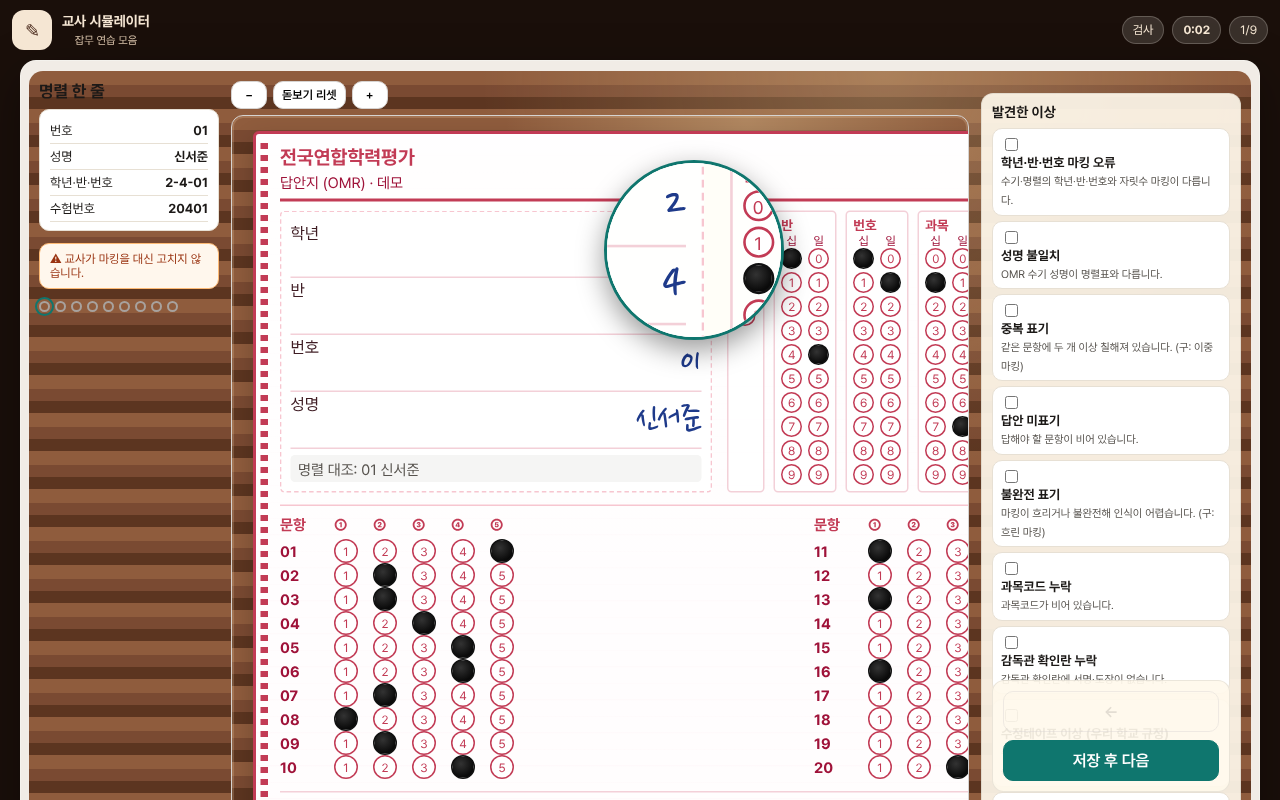
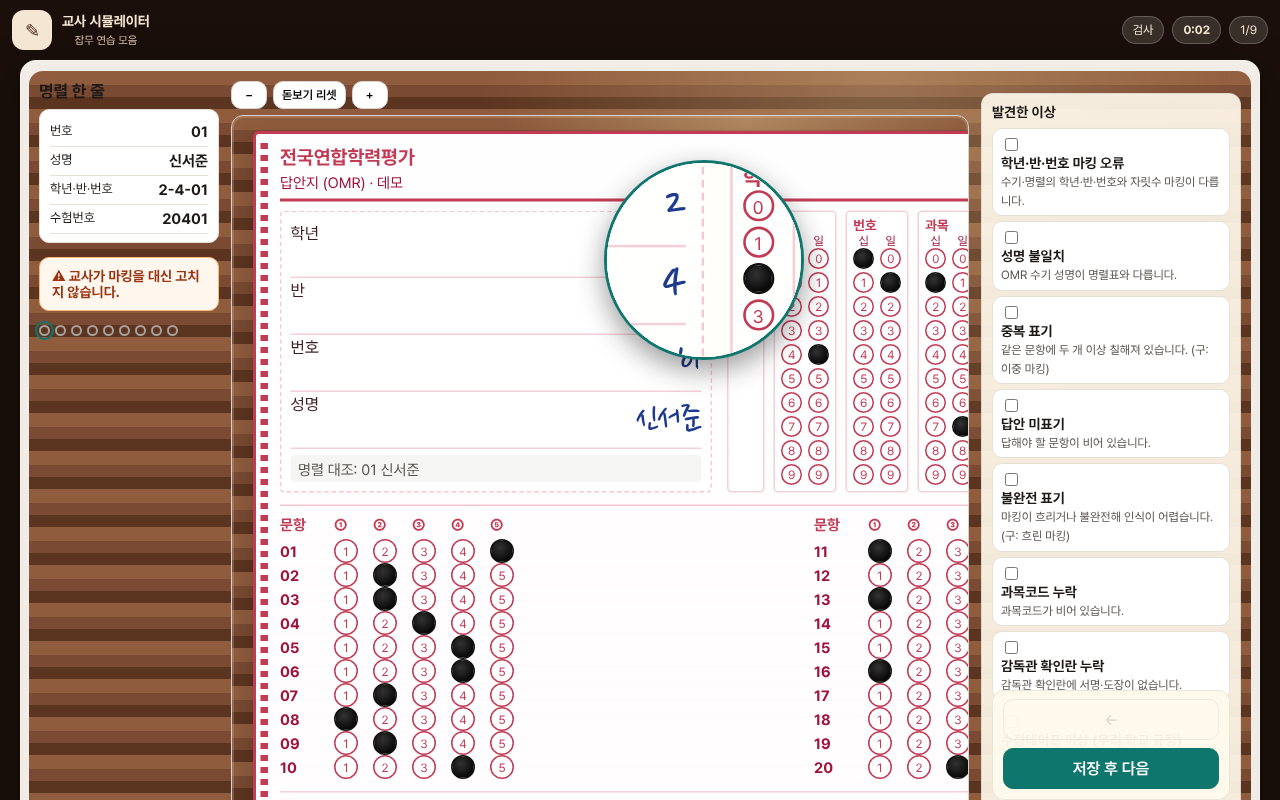
Round 0033: larger inspection labels and sticky submit
Bump warn/check/mag-hint type, enlarge the lens, and keep
Save sticky so the last disposition stays reachable.

diff --git a/src/style.css b/src/style.css
@@ -1153,3 +1153,41 @@ kbd {
 .desk-sticky { font-size: 16px !important; }
 .desk-sticky p { font-size: 16px !important; }
 .desk-roster > .side-note { font-size: 16px !important; }
+
+/* 0033 inspection readability */
+.app-root.stage-inspection .warn-note {
+  font-size: 14px !important;
+  padding: 10px 12px !important;
+  font-weight: 700;
+}
+.app-root.stage-inspection .check-body strong,
+.app-root.stage-inspection .disp strong {
+  font-size: 14px !important;
+}
+.app-root.stage-inspection .check-body small,
+.app-root.stage-inspection .disp small {
+  font-size: 12px !important;
+  line-height: 1.35;
+}
+.app-root.stage-inspection .mag-hint {
+  font-size: 14px !important;
+  font-weight: 600;
+  color: #faf6ef !important;
+  text-shadow: 0 1px 2px rgba(0,0,0,0.45);
+}
+.app-root.stage-inspection .magnifier {
+  width: 200px !important;
+  height: 200px !important;
+}
+.app-root.stage-inspection .inspect-actions .actions {
+  position: sticky;
+  bottom: 0;
+  background: rgba(255,249,235,0.96);
+  padding-top: 8px;
+  margin-top: 8px;
+  z-index: 3;
+}
+.app-root.stage-inspection .student-card dd {
+  font-size: 15px;
+  font-weight: 700;
+}

diff --git a/docs/issues/0033-inspect-readability.md b/docs/issues/0033-inspect-readability.md
@@ -1,0 +1,10 @@
+# 0033 Inspection readability
+
+## Critique
+Warn memo / check labels / mag hint small; submit can cover last check.
+
+## Fix
+Larger warn-note, check/disp copy, mag-hint; 200px magnifier; sticky submit bar.
+
+## Verify
+e2e OK · viewport OK

diff --git a/docs/ROUNDLOG.md b/docs/ROUNDLOG.md
@@ -25,3 +25,6 @@
 
 ## Round 0032 (01:37 KST)
 - viewport-check asserts cardsOut/slotsOut
+
+## Round 0033 (01:38 KST)
+- Inspection: larger labels, sticky submit, bigger magnifier
